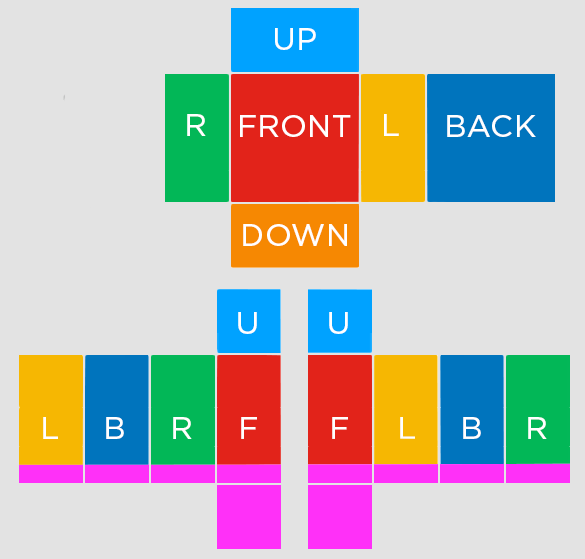
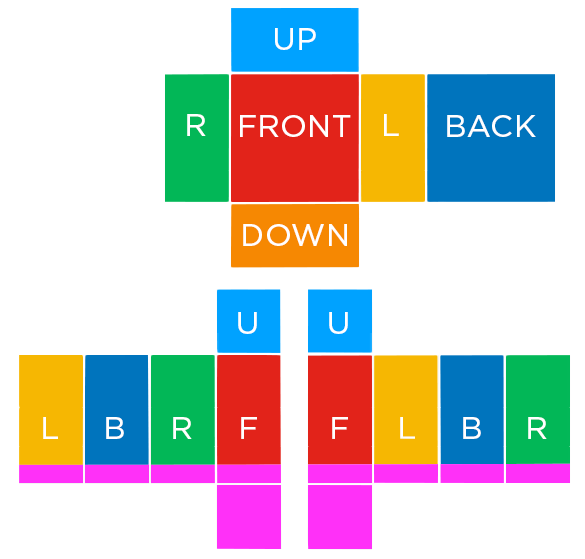
Use selected clothing references directly

diff --git a/app.js b/app.js
@@ -231,120 +231,6 @@ async function buildAIClothingReferenceMask({ blankTemplateBuffer, referenceTemp
   return alpha;
 }
 
-async function buildAIClothingCleanGuide(mask) {
-  const width = AI_CLOTHING_OUTPUT_WIDTH;
-  const height = AI_CLOTHING_OUTPUT_HEIGHT;
-  const pixels = Buffer.alloc(width * height * 4);
-
-  for (let pixel = 0; pixel < mask.length; pixel += 1) {
-    if (mask[pixel] !== 255) continue;
-    const offset = pixel * 4;
-    // A label-free, flat guide prevents the image model from copying UV labels or borders.
-    pixels[offset] = 70;
-    pixels[offset + 1] = 150;
-    pixels[offset + 2] = 220;
-    pixels[offset + 3] = 255;
-  }
-
-  return getSharp()(pixels, {
-    raw: {
-      width,
-      height,
-      channels: 4,
-    },
-  })
-    .png()
-    .toBuffer();
-}
-
-function fillAIClothingUnrenderedWhiteAreas(pixels, mask) {
-  const width = AI_CLOTHING_OUTPUT_WIDTH;
-  const height = AI_CLOTHING_OUTPUT_HEIGHT;
-  const total = width * height;
-  const isNearWhite = (pixel) => {
-    const offset = pixel * 4;
-    return pixels[offset + 3] > 8
-      && pixels[offset] > 238
-      && pixels[offset + 1] > 238
-      && pixels[offset + 2] > 238;
-  };
-  const white = new Uint8Array(total);
-  const repair = new Uint8Array(total);
-  const visited = new Uint8Array(total);
-  const minimumEmptyArea = 48;
-
-  for (let pixel = 0; pixel < total; pixel += 1) {
-    white[pixel] = mask[pixel] === 255 && isNearWhite(pixel) ? 1 : 0;
-  }
-
-  const neighbours = (pixel, visit) => {
-    const x = pixel % width;
-    if (x > 0) visit(pixel - 1);
-    if (x < width - 1) visit(pixel + 1);
-    if (pixel >= width) visit(pixel - width);
-    if (pixel < total - width) visit(pixel + width);
-  };
-
-  for (let start = 0; start < total; start += 1) {
-    if (!white[start] || visited[start]) continue;
-    const component = [];
-    const queue = [start];
-    visited[start] = 1;
-    for (let cursor = 0; cursor < queue.length; cursor += 1) {
-      const pixel = queue[cursor];
-      component.push(pixel);
-      neighbours(pixel, (next) => {
-        if (!white[next] || visited[next]) return;
-        visited[next] = 1;
-        queue.push(next);
-      });
-    }
-    if (component.length >= minimumEmptyArea) {
-      component.forEach((pixel) => { repair[pixel] = 1; });
-    }
-  }
-
-  if (!repair.some(Boolean)) return pixels;
-
-  const nearestSource = new Int32Array(total);
-  nearestSource.fill(-1);
-  const queue = new Int32Array(total);
-  let head = 0;
-  let tail = 0;
-  let fallbackSource = -1;
-  for (let pixel = 0; pixel < total; pixel += 1) {
-    if (mask[pixel] !== 255 || white[pixel]) continue;
-    nearestSource[pixel] = pixel;
-    queue[tail] = pixel;
-    tail += 1;
-    if (fallbackSource < 0) fallbackSource = pixel;
-  }
-
-  while (head < tail) {
-    const pixel = queue[head];
-    head += 1;
-    neighbours(pixel, (next) => {
-      if (mask[next] !== 255 || nearestSource[next] >= 0) return;
-      nearestSource[next] = nearestSource[pixel];
-      queue[tail] = next;
-      tail += 1;
-    });
-  }
-
-  for (let pixel = 0; pixel < total; pixel += 1) {
-    if (!repair[pixel]) continue;
-    const source = nearestSource[pixel] >= 0 ? nearestSource[pixel] : fallbackSource;
-    if (source < 0) continue;
-    const targetOffset = pixel * 4;
-    const sourceOffset = source * 4;
-    pixels[targetOffset] = pixels[sourceOffset];
-    pixels[targetOffset + 1] = pixels[sourceOffset + 1];
-    pixels[targetOffset + 2] = pixels[sourceOffset + 2];
-  }
-
-  return pixels;
-}
-
 function assertAIThumbnailConfigured() {
   if (!OPENAI_API_KEY) {
     const error = new Error("AI thumbnail generation is not configured yet.");
@@ -641,19 +527,17 @@ function buildAIClothingVariantPrompt(basePrompt, variant = {}) {
     "Create a clean wearable Roblox clothing texture on the supplied Roblox character UV template.",
     `Return only a wearable clothing texture at exactly ${AI_CLOTHING_OUTPUT_WIDTH} x ${AI_CLOTHING_OUTPUT_HEIGHT} pixels.`,
     `The working image may be generated at ${AI_CLOTHING_GENERATION_SIZE}, but the final design must map cleanly back into the supplied panel layout size.`,
-    "Input image 1 is Blank Template.png: this is the exact final Roblox UV canvas to build on.",
-    `Input image 2 is the selected ${isTop ? `${basePrompt.sleeveLength}-sleeve` : `${basePrompt.pantsLength}% lower-body`} reference: it identifies the only allowed garment panels. Every transparent area and every pink #FF30F8 guide zone is a strict no-material area.`,
+    `Input image 1 is the selected ${isTop ? `${basePrompt.sleeveLength}-sleeve` : `${basePrompt.pantsLength}% lower-body`} reference. Build the clothing directly from this selected reference and use it as the exact garment-panel map. Every transparent area and every pink #FF30F8 guide zone is a strict no-material area.`,
     `Clothing option: ${basePrompt.templateLabel}.`,
     `Gender styling: ${basePrompt.gender}.`,
     basePrompt.templateInstruction,
     isTop
       ? "Follow the selected sleeve reference exactly for every torso and arm panel. The reference's garment boundary is final: fill only its shirt and sleeve islands, and leave its wrist, hand, and every pink or unmarked arm area completely transparent so the Roblox rig remains visible below the cuffs."
       : "Follow the selected lower-body reference exactly and leave all non-pants areas empty.",
-    "DO NOT draw outlines, gutters, panel borders, divider lines, or seam strokes in white, black, or any other contrasting color. Keep the artwork continuous to each allowed UV island edge, without artificial edge strips or boxed outlines.",
-    "Pink #FF30F8 is not a color to render. Keep every transparent or pink-marked zone fully transparent, with no fabric, material, graphics, shadows, seams, cuffs, or accessories.",
-    "Do not copy any guide colors, labels, white borders, or blank-template pixels into the garment artwork.",
+    "Pink #FF30F8 is not a color to render. Keep every transparent or pink-marked zone fully transparent, with no fabric, material, graphics, shadows, cuffs, or accessories.",
+    "Build the artwork from the selected reference's colored garment zones only; do not use its guide colors as the clothing design.",
     "DO NOT overflow artwork across a UV island boundary. Keep the canvas outside mapped panels transparent and keep each garment panel filled only with its intended clothing artwork.",
-    "Make this a catalog-ready Roblox texture, with readable panels, seam-safe edges, and a cohesive front and back.",
+    "Make this a catalog-ready Roblox texture with readable panels and a cohesive front and back.",
     `Design brief: ${basePrompt.userPrompt || "Create a polished, high-detail Roblox clothing design with readable front, back, sleeve, and leg zones."}.`,
     basePrompt.style ? `Art direction: ${basePrompt.style}.` : "",
     basePrompt.palette ? `Color palette: ${basePrompt.palette}.` : "",
@@ -714,8 +598,15 @@ async function generateAIClothingImage({ templateType, enhancedPrompt, sleeveLen
     blankTemplateBuffer,
     referenceTemplateBuffer,
   });
-  const cleanedReferenceTemplateBuffer = await buildAIClothingCleanGuide(referenceMask);
-  const sleeveGuideUpload = await toFile(Readable.from([cleanedReferenceTemplateBuffer]), path.basename(referenceTemplatePath), {
+  const selectedReferenceBuffer = await sharp(referenceTemplateBuffer)
+    .resize(AI_CLOTHING_OUTPUT_WIDTH, AI_CLOTHING_OUTPUT_HEIGHT, {
+      fit: "fill",
+      kernel: "nearest",
+    })
+    .ensureAlpha()
+    .png()
+    .toBuffer();
+  const sleeveGuideUpload = await toFile(Readable.from([selectedReferenceBuffer]), path.basename(referenceTemplatePath), {
     type: "image/png",
   });
   const userReferenceUploads = await Promise.all(references.map((reference) => toFile(
@@ -727,7 +618,7 @@ async function generateAIClothingImage({ templateType, enhancedPrompt, sleeveLen
   const generation = await getOpenAIClient().images.edit({
     model: AI_CLOTHING_MODEL,
     image: [sleeveGuideUpload].concat(userReferenceUploads),
-    prompt: `${promptText} Use input image 1, ${path.basename(referenceTemplatePath)}, as the exact label-free garment-panel and wrist-clearance map.${normalizedTemplateType === "shirt" && resolvedSleeveReferenceKey === "long" ? " This clean map comes from Long Sleeve Reference.png and it is mandatory for this long-sleeve request." : ""}${userReferenceUploads.length ? " The remaining input images are user style references only: use their colors, motifs, materials, and overall aesthetic, but never copy their shape or layout over the Roblox UV guide." : ""} Every allowed garment island must be fully covered edge-to-edge with the generated fabric design: never leave white, empty, or unfinished patches inside an allowed island. Every transparent region and every pink #FF30F8 marking is a no-material zone and must remain empty. For shirts, never extend fabric into the wrist or hand zones outside the selected sleeve reference. Never create guide labels, orientation letters, borders, stripes, or seam marks. Return the completed Roblox ${normalizedTemplateType} texture following the map, not a copy of the guide image.`,
+    prompt: `${promptText} Build directly from input image 1, ${path.basename(referenceTemplatePath)}, which is the selected garment-panel and wrist-clearance map.${normalizedTemplateType === "shirt" && resolvedSleeveReferenceKey === "long" ? " This is the selected Long Sleeve Reference.png and it is mandatory for this long-sleeve request." : ""}${userReferenceUploads.length ? " The remaining input images are user style references only: use their colors, motifs, materials, and overall aesthetic, but never copy their shape or layout over the Roblox UV guide." : ""} Every colored garment island in the selected reference must receive the completed clothing design. Pink #FF30F8 marks no-material zones: keep those zones fully transparent with no fabric, material, graphics, shadows, cuffs, or accessories. For shirts, never extend fabric into wrist or hand zones outside the selected sleeve reference. Return the completed Roblox ${normalizedTemplateType} texture following the selected reference map.`,
     size: AI_CLOTHING_GENERATION_SIZE,
   });
 
@@ -751,11 +642,10 @@ async function generateAIClothingImage({ templateType, enhancedPrompt, sleeveLen
     })
     .raw()
     .toBuffer();
-  const repairedPixels = fillAIClothingUnrenderedWhiteAreas(generatedPixels, referenceMask);
   for (let pixel = 0; pixel < referenceMask.length; pixel += 1) {
-    repairedPixels[pixel * 4 + 3] = referenceMask[pixel];
+    generatedPixels[pixel * 4 + 3] = referenceMask[pixel];
   }
-  const finalArtBuffer = await sharp(repairedPixels, {
+  const finalArtBuffer = await sharp(generatedPixels, {
     raw: {
       width: AI_CLOTHING_OUTPUT_WIDTH,
       height: AI_CLOTHING_OUTPUT_HEIGHT,
